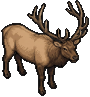
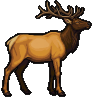
Gemini 的馬鹿公鹿 4 個姿勢接進戰術狩獵
Claude-Session: https://claude.ai/code/session_01HkqM82v9towmCBuEomSQC3

diff --git a/prototypes/hd2d_tactical/prep_gemini_prey.py b/prototypes/hd2d_tactical/prep_gemini_prey.py
@@ -7,6 +7,7 @@
 - 騾鹿公鹿 mule_deer_buck_*：同母鹿（警覺那張是正面看著你）；吃草那張是重畫的乾淨版（第一版有草與浮著的頭，remove_grass 清得掉，留著備用）
 - 騾鹿幼鹿 mule_deer_fawn_*：站寬 0.9 格
 - 北美馴鹿母鹿 caribou_cow_*：站寬 1.35 格（角細短，比公鹿小）；警覺那張頭只抬高一點（之後可以重出）
+- 馬鹿公鹿 elk_bull_*：站寬 1.85 格（含角；取代風格測試的單張 hd_elk_bull）
 - 馬鹿母鹿 elk_cow_*：站寬 1.6 格（取代風格測試的單張 hd_elk_cow）
 - 馬鹿幼鹿 elk_calf_*：站寬 1.15 格（「站」那張是邁步的樣子，縮小後自然）
 - 駝鹿幼鹿 moose_calf_*：站寬 1.2 格（紅褐色、腿細長、沒有角）
@@ -36,6 +37,7 @@ ANIMALS = {
     "moose_calf": (1.2, ["stand", "alert", "run", "graze"]),
     "elk_calf": (1.15, ["stand", "alert", "run", "graze"]),
     "elk_cow": (1.6, ["stand", "alert", "run", "graze"]),
+    "elk_bull": (1.85, ["stand", "alert", "run", "graze"]),
 }
 # 特別處理的姿勢（動物_姿勢 → 設定）：file 來源檔、crop 先裁（像素，左上右下）、flip 水平翻轉（面向左的）、
 # cells 直接指定寬幾格（同一張裡畫的大小不同、或畫布不是 1024 時，照身體長度目測）、match 顏色照站那張的色盤（prep_wolf.match_palette）

diff --git a/docs/progress.md b/docs/progress.md
@@ -7,7 +7,7 @@
 （2026-11-06）美洲獅的 Gemini 圖接進戰鬥畫面：`prototypes/hd2d_tactical/prep_cougar.py`（2×2 合在一張的切成四格；灰白棋盤格背景：灌水＋被身體包住的棋盤格空隙〔同時有亮白與淺灰〕＋只露白格的小縫〔幾乎全白、四周多是黑色輪廓線〕也挖掉；綠色棋盤格用色鍵）：站、走路兩格、伏低（灰底那張）、低頭吃（綠底那張）、撲擊（單張），寬 1.8 格（撲擊 2.1）。姿勢：預告是撲擊 → 伏低，揮掌或咬 → 撲擊的圖。伏低那張尾巴和後腳之間還留一點白，之後有新圖再換。
 （2026-11-06）灰熊改用 Gemini 第二輪的綠底 4 張（使用者：免費額度用完，直接套用、能改的直接改）：`prototypes/hd2d_tactical/prep_grizzly.py`（綠幕去背＋去綠色溢色、只留最大的一塊；粉紅鼻子換成深黑褐色〔揮掌那張的鼻子範圍另外設〕；整批乘同一組 RGB 倍率〔0.86, 0.855, 0.975〕讓毛色接近第一輪第 4 張；低頭吃沿用第一輪第 5 張、調到同樣的毛色；縮成 32／48，走路、站寬 2.3 格，揮掌 2.45 格、低頭吃 2.0 格）。戰鬥畫面的姿勢：沒動 stand、上一回合有移動 walk／walk_b 輪流、在吃 eat、預告看起來是揮掌或咬 swipe。來源圖在 `arts/hd2d_2026-11-06/`（r2_*、r1_*）。
 （2026-11-06）灰熊的 Gemini 圖先接進戰鬥畫面（使用者要求先看效果）：第 4 張走路、第 5 張低頭吃、第 9 張揮掌（去棋盤格背景、只留最大的一塊〔去掉揮動線〕、縮成 32／48：走路與吃寬 74／110、揮掌 87／130），原圖去背後在 `arts/hd2d_2026-11-06/`；`combat_hd2d.json` 的 `hd2d_poses`：在吃 eat、預告看起來是揮掌或咬 swipe（看 looks，不洩漏假動作）、其他 walk。正式版等 Gemini 照回饋整套重畫（`docs/art-request-hd2d-2026-11-06.md`）。
-（2026-11-06）Gemini 的騾鹿母鹿 4 個姿勢（站、警覺抬頭、跑、低頭吃草，`arts/gemini_prey_2026-11-06/`；`prototypes/hd2d_tactical/prep_gemini_prey.py`：綠底去背、照站那張的畫布比例換算其他姿勢、站寬 1.4 格〔和白尾鹿差不多高、壯一點〕）→ `hd_mule_deer_doe*`，戰術狩獵依狀態換圖（同白尾鹿）。騾鹿公鹿 4 個姿勢（站、正面看著你〔警覺〕、跑、低頭吃草）→ `hd_mule_deer_buck*`；吃草那張 Gemini 多畫了一顆浮著的鹿頭和一叢草：浮著的頭靠「只留最大的一塊」去掉，草用 `remove_grass`（偏綠的去掉、草葉的輪廓線去掉、形態學 opening 去掉細線、小碎塊去掉、被草蓋住的短空隙補起來；縮到遊戲大小後前腳少了蹄子看不出來）。戰術狩獵的公鹿通用 `<物種>_buck`（白尾鹿、騾鹿）。騾鹿幼鹿 4 個姿勢（站、抬頭、跑、吃草，站寬 0.9 格）→ `hd_mule_deer_fawn*`（戰術物種 `mule_deer_calf`）；公鹿吃草換成重畫的乾淨版（第一版留在 `mule_deer_buck_graze_v1_grass.jpg`，`remove_grass` 留著備用）。騾鹿三種都齊了。北美馴鹿 4 個姿勢（`hd_caribou*`；站寬 1.55 格含角）：Gemini 把「正面看著你」「跑」和一副浮著的鹿角畫在同一張 → 分別裁出來（`SPECIAL` 的 crop），吃草那張面向左、1408×768、偏紅褐 → 翻轉、照站那張調色；這幾張畫的大小不同，寬度照身體長度目測指定（警覺 1.45、跑 1.9、吃草 1.95 格）。馴鹿母鹿（站、警覺、跑、低頭吃草；`hd_caribou_cow*`，站寬 1.35 格；警覺那張頭只抬高一點，之後可以重出）：鹿群的成鹿每 3 隻有 2 隻用母鹿的圖（`hd_art.caribou.mixed`，照單位序號；只有畫面）。馴鹿幼鹿 4 個姿勢（站、回頭看、跑、吃草；`hd_caribou_calf*`，站寬 0.95 格，戰術物種 `caribou_calf`）。馬鹿母鹿 4 個姿勢（`hd_elk_cow*`，1.6 格；取代風格測試的單張，第一次出的有白點像幼鹿，開新對話加「成年、沒有白點」重出）。馬鹿幼鹿 4 個姿勢（`hd_elk_calf*`，1.15 格；取代原本母鹿縮小的版本）。駝鹿幼鹿 4 個姿勢（站、警覺、跑、吃草；`hd_moose_calf*`，1.2 格）。出圖流程（2026-11-07 使用者回饋）：先由 Claude Code 寫好外觀與姿勢的描述，使用者把標題和描述一起轉給 Gemini、一次一張，準確很多。
+（2026-11-06）Gemini 的騾鹿母鹿 4 個姿勢（站、警覺抬頭、跑、低頭吃草，`arts/gemini_prey_2026-11-06/`；`prototypes/hd2d_tactical/prep_gemini_prey.py`：綠底去背、照站那張的畫布比例換算其他姿勢、站寬 1.4 格〔和白尾鹿差不多高、壯一點〕）→ `hd_mule_deer_doe*`，戰術狩獵依狀態換圖（同白尾鹿）。騾鹿公鹿 4 個姿勢（站、正面看著你〔警覺〕、跑、低頭吃草）→ `hd_mule_deer_buck*`；吃草那張 Gemini 多畫了一顆浮著的鹿頭和一叢草：浮著的頭靠「只留最大的一塊」去掉，草用 `remove_grass`（偏綠的去掉、草葉的輪廓線去掉、形態學 opening 去掉細線、小碎塊去掉、被草蓋住的短空隙補起來；縮到遊戲大小後前腳少了蹄子看不出來）。戰術狩獵的公鹿通用 `<物種>_buck`（白尾鹿、騾鹿）。騾鹿幼鹿 4 個姿勢（站、抬頭、跑、吃草，站寬 0.9 格）→ `hd_mule_deer_fawn*`（戰術物種 `mule_deer_calf`）；公鹿吃草換成重畫的乾淨版（第一版留在 `mule_deer_buck_graze_v1_grass.jpg`，`remove_grass` 留著備用）。騾鹿三種都齊了。北美馴鹿 4 個姿勢（`hd_caribou*`；站寬 1.55 格含角）：Gemini 把「正面看著你」「跑」和一副浮著的鹿角畫在同一張 → 分別裁出來（`SPECIAL` 的 crop），吃草那張面向左、1408×768、偏紅褐 → 翻轉、照站那張調色；這幾張畫的大小不同，寬度照身體長度目測指定（警覺 1.45、跑 1.9、吃草 1.95 格）。馴鹿母鹿（站、警覺、跑、低頭吃草；`hd_caribou_cow*`，站寬 1.35 格；警覺那張頭只抬高一點，之後可以重出）：鹿群的成鹿每 3 隻有 2 隻用母鹿的圖（`hd_art.caribou.mixed`，照單位序號；只有畫面）。馴鹿幼鹿 4 個姿勢（站、回頭看、跑、吃草；`hd_caribou_calf*`，站寬 0.95 格，戰術物種 `caribou_calf`）。馬鹿公鹿 4 個姿勢（`hd_elk_bull*`，1.85 格含角；取代風格測試的單張）。馬鹿母鹿 4 個姿勢（`hd_elk_cow*`，1.6 格；取代風格測試的單張，第一次出的有白點像幼鹿，開新對話加「成年、沒有白點」重出）。馬鹿幼鹿 4 個姿勢（`hd_elk_calf*`，1.15 格；取代原本母鹿縮小的版本）。駝鹿幼鹿 4 個姿勢（站、警覺、跑、吃草；`hd_moose_calf*`，1.2 格）。出圖流程（2026-11-07 使用者回饋）：先由 Claude Code 寫好外觀與姿勢的描述，使用者把標題和描述一起轉給 Gemini、一次一張，準確很多。
 （2026-11-06）PixelLab 出圖（使用者試用，`arts/pixellab_2026-11-06/`，每張 2×2 四個版本；`prototypes/hd2d_tactical/prep_pixellab.py`）：灰狼走路的另一步取左上（寬高比最接近第二輪的走路，照高度對齊）→ `hdwolf_walk_b`，移動時和走路輪流（原本和站輪流）；馬鹿殘骸左上 → `hd_carcass_elk`（1.6 格）、右下縮小 → `hd_carcass_deer`（1.2 格，白尾鹿、騾鹿共用），`combat_hd2d.json` 的 `carcass.hd`。白尾鹿：雄鹿（4 個版本取右上）、母鹿 4 個姿勢（站、走、低頭吃草、警覺回頭）→ `hd_deer_*`；PixelLab 畫得腿長脖子高、顏色鮮豔，縮成 1.1／1.2 格（約馬鹿的 0.85 高）、飽和度 × 0.8。戰術狩獵依每隻鹿的狀態換圖（`hunt_hd2d.json` 的 `hd_art` 加 unaware／suspicious／stand／flee）：沒發現你低頭吃草、警覺或站定抬頭回看、逃跑走路；主遊戲的白尾鹿雄鹿用雄鹿的圖（`ctx.life_stage` → `game_mods.life_stage`，只給畫面用）。
 （2026-11-06）戰術狩獵的獵物補上 HD-2D 圖（使用者：沒有出圖額度，看舊素材能不能補）：沿用 2026-10-13 風格測試留下的高解析度原圖（`prototypes/hd2d_tactical/prep_prey.py` → `assets/hd_*`）：馬鹿母鹿、公鹿（`art_scene_test` 的像素風）、小馬鹿（母鹿縮小到 1.1 格）、雪兔夏毛、冬毛與幼兔（`art_illustrated_test` 的插畫風；野兔暫時共用夏毛）。`hunt_hd2d.json` 的 `hd_art`（物種鍵 → 圖名、冬季的圖），`HuntHD2D._art_for` 有就用。其他獵物（白尾鹿、騾鹿、馴鹿、野牛……）和殘骸沒有可用的舊原圖，照舊用佔位圖。
 （2026-11-06）灰狼的 Gemini 圖接進戰鬥與戰術狩獵畫面（使用者提供兩輪共 12 張，`arts/hd2d_2026-11-06/wolf_r1_*`、`wolf_r2_*`；`prototypes/hd2d_tactical/prep_wolf.py` → `assets/hdwolf_*`）：第二輪（淺灰、黑框粗）當基準：走路、示弱（耳朵壓平、尾巴下垂；使用者說明第 2 張是示弱）、倒地、示威、潛行、撤退（尾巴夾住）、帶傷、準備撲；第一輪補站、撲咬、叼肉（2026-11-06 改成照亮度的排名對應到第二輪走路那張的顏色、肉保留原色；原本整張乘倍率會偏褐藍、肉偏粉）。縮小後補 1 像素深色外框（原圖細黑框縮小會不見），走路寬 1.35 格。`combat_hd2d.json` 的 `wolf_poses`、`CombatHD2D._wolf_pose`：叼肉 carry、上一回合咬或壓制 lunge、示威 threaten、對手預告咬或壓制 ready、過了重傷線 hurt、潛行 stalk、移動 walk／stand 輪流；退出的狼留在原地一回合（示弱 submit、被打倒 down、撤退或逃走 retreat；熊、美洲獅走了照舊不畫）。你、伴侶、同伴、對手的狼都用同一套、各自調顏色。戰術狩獵的狼也換成新的站姿。原本的 `wolf_stand` 等留給 HD-2D 測試場景。

diff --git a/docs/art-request-hd2d-2026-11-06.md b/docs/art-request-hd2d-2026-11-06.md
@@ -7,7 +7,7 @@
 
 已經接進遊戲的：
 - 戰鬥：灰熊（站、走路 2 格、揮掌、低頭吃）、美洲獅（站、走路 2 格、伏低、低頭吃、撲擊）、黑熊（站、走路、揮掌、衝刺、低頭吃、站起來）、灰狼 12 個姿勢（站、走路 2 格、潛行、示威、準備撲、撲咬、叼肉、帶傷、示弱、撤退、倒地）、馬鹿與鹿的殘骸。伴侶、黑狼、苔原狼、鄰群的狼都用灰狼調顏色。
-- 戰術狩獵：白尾鹿母鹿（站、走、低頭吃草、警覺回頭）、白尾鹿雄鹿、騾鹿母鹿／公鹿／幼鹿（各 4 個姿勢）、北美馴鹿公鹿／母鹿／幼鹿（各 4 個姿勢）、駝鹿幼鹿、馬鹿母鹿、馬鹿幼鹿（各 4 個姿勢）、馬鹿母鹿與公鹿、雪兔（夏毛、冬毛）。
+- 戰術狩獵：白尾鹿母鹿（站、走、低頭吃草、警覺回頭）、白尾鹿雄鹿、騾鹿母鹿／公鹿／幼鹿（各 4 個姿勢）、北美馴鹿公鹿／母鹿／幼鹿（各 4 個姿勢）、駝鹿幼鹿、馬鹿公鹿、母鹿、幼鹿（各 4 個姿勢）、雪兔（夏毛、冬毛）。
 
 ### 一、明天用 PixelLab 補（白尾鹿）
 
